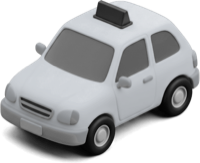
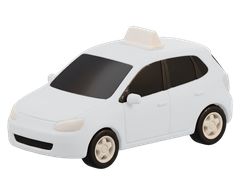
REG-672 auto Road, stella e razzo: le stesse PNG della mobile (trasparenti, @3x)

diff --git a/docs/features/reglo-road.md b/docs/features/reglo-road.md
@@ -81,7 +81,7 @@ Visibile solo con `isRoadEnabled(services)` (`lib/services.ts`: `roadEnabled ===
 - **Setting**: `AutoscuolaVehicle.color` (nullable, migrazione `20261031120000_reglo_road_vehicle_color`), campo «Colore» nella scheda veicolo (Impostazioni › Veicoli › Dettagli), visibile solo con Road acceso. Componente `components/pages/Autoscuole/road/VehicleColorField.tsx`, salvato da `updateAutoscuolaVehicle` (`color`: chiave o `null`).
 - **Palette**: `lib/autoscuole/road/car-colors.ts` — 10 chiavi (bianco, argento, grigio, nero, rosso, arancio, giallo, verde, azzurro, blu). Le chiavi sono contratto con la mobile.
 - **Risoluzione** (`resolveCarColor`): colore del veicolo → variante più vicina alla tinta dell'istruttore (solo varianti colorate) → bianco. Lato server in `lessonDTO` e in `atBase`.
-- **Immagini**: varianti pre-generate (niente filtri CSS) in `public/images/road/cars/auto-{su,34}-<chiave>.png`; helper web `roadCarImages(key)` in `symbols.ts`. Mobile: `assets/road/cars/`, stesse chiavi. Generate ricolorando solo la carrozzeria dell'auto bianca (ombre e riflessi conservati; vetri, gomme, cerchioni e insegna intatti).
+- **Immagini**: varianti pre-generate (niente filtri CSS) in `public/images/road/cars/auto-{su,34}-<chiave>.png`; helper web `roadCarImages(key)` in `symbols.ts`. Mobile: `assets/road/cars/`, stesse chiavi. Generate ricolorando solo la carrozzeria dell'auto bianca (ombre e riflessi conservati; vetri, gomme, cerchioni e insegna intatti). **Dal 30/10/2026 (REG-672) sono le STESSE della mobile** (`reglo-mobile/assets/road/cars/*@3x.png`: 3/4 240×195, dall'alto 90×138), scelta di Tiziano.
 - **Icona nav «Road»**: `public/images/nav/road-3d.png` = segnaposto rosso su tratto di strada (Gemini, stile icone 3D della barra), 128px.
 
 ## QA 27/10 sera — segno, minuti di guida, Road nel dettaglio allievo

diff --git a/docs/design-system.md b/docs/design-system.md
@@ -328,6 +328,16 @@ Si scrive **mobile-first**: classi base per il telefono, `md:`/`lg:` per allarga
 
 ---
 
+## 9b. Icone 3D condivise con il mobile (REG-672, 2026-10-30)
+
+Le icone 3D esistono una volta sola: la tabella di corrispondenza è in
+`reglo-mobile/docs/design-system.md` §0.9 «Icone condivise con la web app».
+Prima di generarne una nuova (su web o mobile) si controlla lì.
+Su scelta di Tiziano le auto Road (`public/images/road/cars/`), la stella
+(`menu/feedback-mid.png`) e il razzo (`menu/dai-un-boost.png`) sono le copie
+dei PNG mobile; il resto della tabella (calendario, campanella, sede,
+malattia, aeroplanino, emblema Road) va dal web al mobile.
+
 ## 10. Mapping Mobile ↔ Web
 
 > **I token NON sono più allineati.** Il passaggio a bianco/nero del 2026-09-17
